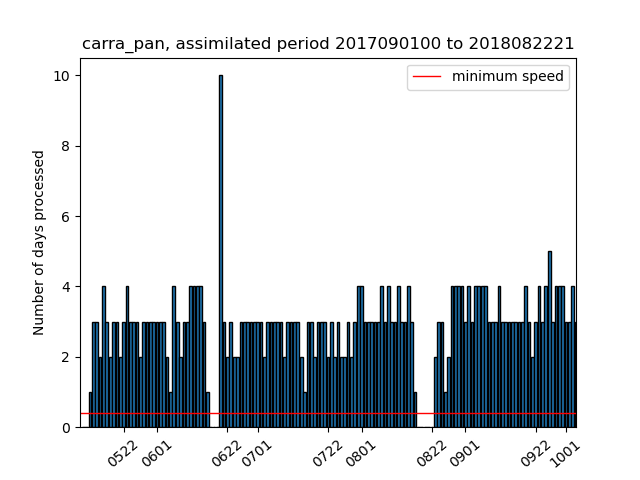
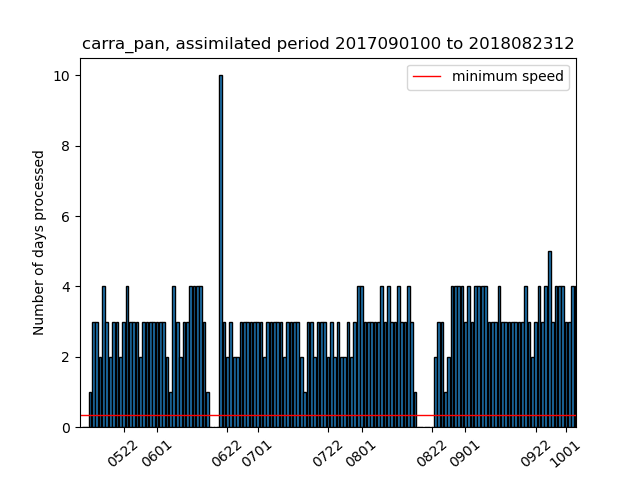
update repo

Changed region(s): [[0.125, 0.8438, 0.9062, 0.875], [0.8438, 0.0625, 0.9062, 0.125]]

diff --git a/current_state_sims.html b/current_state_sims.html
@@ -2,18 +2,18 @@
 <h1>Estimated completion dates and simulation speeds</h1>
 <p>Stream (production) completion date based on 30d (7d) moving avg speed</p>
 <p><a href="https://docs.google.com/document/d/1zDKAxuEXYnWWYzT3SZnZwY5WW8nodUMeYRjAGz46coc/edit#">Details of the calculation of the completion dates</a></p>
-<p>Last update: 2021/10/05 00:38:45 UTC</p>
+<p>Last update: 2021/10/05 06:42:31 UTC</p>
 <p>Total progress CARRA: 99.44% <a href="https://hirlam.org/portal/CARRA/Progress/GanntChart_CARRA.html"> (see detailed progress meter in Gantt chart) </a></p>
 <p>Total progress PANARCTIC: 91.67% </p>
 <p><a href="https://hirlam.org/portal/CARRA/Progress/waiting_times.html"> Queue waiting times for all streams</a></p>
 <p><a href="https://hirlam.org/portal/CARRA/Progress/mars_status.html"> MARS archive throughput </a></p>
 <html><table border="1"><tr><th>expId</th><th>Current assimilated date</th><th>End date of stream </th><th> Completion date</th><th> Avg. throughput (7d) </th> <th>Avg. throughput (30d) </th> <th> Remarks</tr>
-<tr bgcolor="#FFFF00"><td>carra_NE_3</td><td>2021063000</td><td>2021063021</td><td>2021100500</td><td>(0.0) days/day</td><td>(3.1) days/day</td><td>Inactive the past week</tr>
+<tr bgcolor="#FFFF00"><td>carra_NE_3</td><td>2021063000</td><td>2021063021</td><td>2021100506</td><td>(0.0) days/day</td><td>(3.1) days/day</td><td>Inactive the past week</tr>
 <tr bgcolor="#33FF38"><td>carra_NE_4</td><td>1992090100</td><td>1992083021</td><td>Finished on 20210824</td><td>(0.0) days/day</td><td>(0.0) days/day</td><td>Stream finished</tr>
 <tr bgcolor="#33FF38"><td>carra_NE_5</td><td>1994090100</td><td>1994083021</td><td>Finished on 20210824</td><td>(0.0) days/day</td><td>(0.0) days/day</td><td>Stream finished</tr>
-<tr bgcolor="#33FF38"><td>carra_NE_6</td><td>1997070100</td><td>1997063021</td><td>2021100414</td><td>(0.0) days/day</td><td>(2.33) days/day</td><td>Stream finished</tr>
-<tr bgcolor="#FFFF00"><td>carra_IGB_3</td><td>2021063000</td><td>2021063021</td><td>2021100500</td><td>(0.0) days/day</td><td>(3.03) days/day</td><td>Inactive the past week</tr>
-<tr bgcolor="#33FF38"><td>carra_IGB_4</td><td>1992090100</td><td>1992083021</td><td>2021100106</td><td>(0.0) days/day</td><td>(0.53) days/day</td><td>Stream finished</tr>
-<tr bgcolor="#33FF38"><td>carra_IGB_5</td><td>1994090100</td><td>1994083021</td><td>2021100412</td><td>(0.0) days/day</td><td>(4.0) days/day</td><td>Stream finished</tr>
-<tr bgcolor="#FFA500"><td>carra_IGB_6</td><td>1997012012</td><td>1997063021</td><td>2021110103</td><td>(6.29) days/day</td><td>(5.93) days/day</td><td>Completion date after project end (20211031)</tr>
-<tr bgcolor="#FFFFFF"><td>carra_pan</td><td>2018082221</td><td>2018090100</td><td>2021100723</td><td>(3.57) days/day</td><td>(3.4) days/day</td><td></tr>
+<tr bgcolor="#33FF38"><td>carra_NE_6</td><td>1997070100</td><td>1997063021</td><td>2021100420</td><td>(0.0) days/day</td><td>(2.33) days/day</td><td>Stream finished</tr>
+<tr bgcolor="#FFFF00"><td>carra_IGB_3</td><td>2021063000</td><td>2021063021</td><td>2021100506</td><td>(0.0) days/day</td><td>(3.03) days/day</td><td>Inactive the past week</tr>
+<tr bgcolor="#33FF38"><td>carra_IGB_4</td><td>1992090100</td><td>1992083021</td><td>2021100112</td><td>(0.0) days/day</td><td>(0.53) days/day</td><td>Stream finished</tr>
+<tr bgcolor="#33FF38"><td>carra_IGB_5</td><td>1994090100</td><td>1994083021</td><td>2021100418</td><td>(0.0) days/day</td><td>(4.0) days/day</td><td>Stream finished</tr>
+<tr bgcolor="#FFFFFF"><td>carra_IGB_6</td><td>1997012200</td><td>1997063021</td><td>2021103118</td><td>(6.57) days/day</td><td>(6.0) days/day</td><td></tr>
+<tr bgcolor="#FFFFFF"><td>carra_pan</td><td>2018082312</td><td>2018090100</td><td>2021100721</td><td>(3.71) days/day</td><td>(3.43) days/day</td><td></tr>
